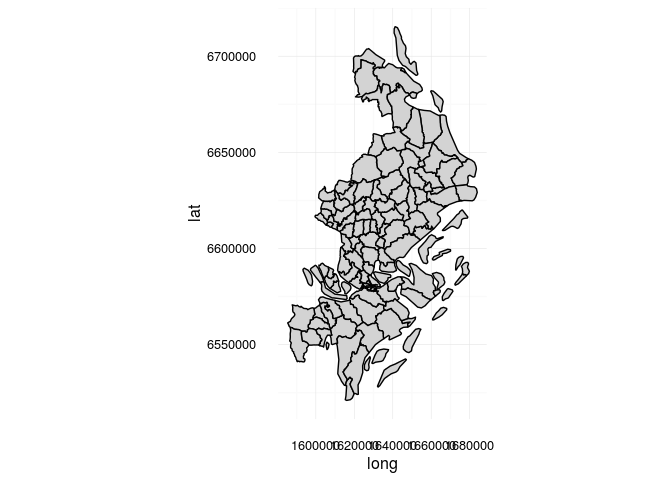
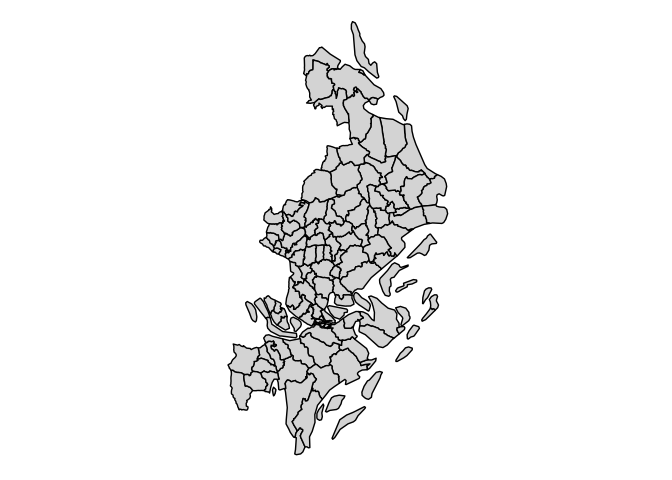
rerender README

diff --git a/README.md b/README.md
@@ -14,6 +14,21 @@ County map
 
 ``` r
 library(histmaps)
+```
+
+    ## Warning: replacing previous import 'dplyr::union' by 'igraph::union' when
+    ## loading 'histmaps'
+
+    ## Warning: replacing previous import 'dplyr::as_data_frame' by
+    ## 'igraph::as_data_frame' when loading 'histmaps'
+
+    ## Warning: replacing previous import 'dplyr::groups' by 'igraph::groups' when
+    ## loading 'histmaps'
+
+    ## Warning: replacing previous import 'dplyr::%>%' by 'igraph::%>%' when
+    ## loading 'histmaps'
+
+``` r
 library(maptools)
 library(sp)
 map <- hist_boundaries(1800, "county")
@@ -35,7 +50,7 @@ p_map <- hist_boundaries("1866-06-06", "parish", "df")
 st_map <- p_map %>% filter(county < 3)
 ggplot(st_map, aes(long, lat, group = group)) +
   geom_polygon(fill = "lightgrey", color = "black") + coord_equal() + 
-  theme_minimal()
+  theme_void()
 ```
 
 ![](README_files/figure-markdown_github/parish_ex-1.png)
@@ -63,9 +78,9 @@ kable(head(period_map$lookup))
 
 |     nadkod|  geomid|
 |----------:|-------:|
-|  148010000|    1973|
-|  148012000|    1976|
-|  228102000|     365|
-|  228401000|     407|
-|  242501000|     290|
-|  242502000|     290|
+|  148010000|       1|
+|  148012000|       2|
+|  228102000|       3|
+|  228401000|       4|
+|  242501000|       5|
+|  242502000|       5|
